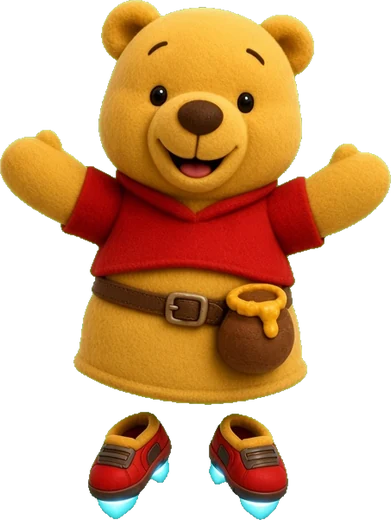
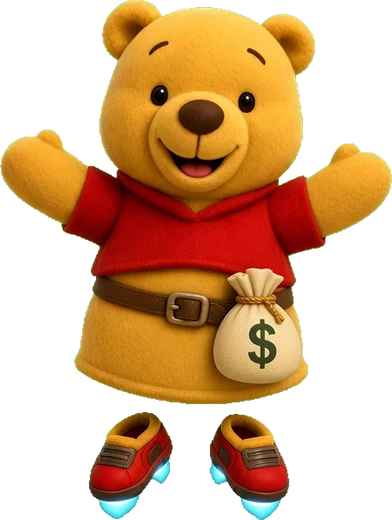
Pinco Pooh Snap v1.2: Money replaces Honey (money bag throwable, Pooh zooms and grabs cash, Money Rain secret, save migration)

diff --git a/pincopoohsnap/js/subjects.js b/pincopoohsnap/js/subjects.js
@@ -3,11 +3,13 @@
 const FX={list:[],tex:{},
  t(k){if(this.tex[k])return this.tex[k];const c=document.createElement('canvas');c.width=c.height=64;const g=c.getContext('2d');g.textAlign='center';g.textBaseline='middle';
   const glyph={z:['Z','#6a8aff'],note:['♪','#ff4ab0'],heart:['♥','#ff4a7a'],star:['★','#ffd23a'],spark:['✦','#ffffff'],crumb:['●','#c8945a'],petal:['❀','#ffb7d5'],steam:['~','#ffffff'],cool:['✧','#4af0ff'],drop:['●','#ffb21a']}[k];
+  if(k==='cash'){g.save();g.translate(32,32);g.fillStyle='#fff';g.fillRect(-29,-17,58,34);g.fillStyle='#5cbf5a';g.fillRect(-26,-14,52,28);g.strokeStyle='#2e7d32';g.lineWidth=3;g.strokeRect(-22,-10,44,20);g.fillStyle='#eaffea';g.beginPath();g.arc(0,0,9,0,7);g.fill();g.fillStyle='#2e7d32';g.font='900 16px Arial,sans-serif';g.textAlign='center';g.textBaseline='middle';g.fillText('$',0,1);g.restore();}
+  else if(k==='coin'){g.fillStyle='#fff';g.beginPath();g.arc(32,32,26,0,7);g.fill();g.fillStyle='#ffc93a';g.beginPath();g.arc(32,32,22,0,7);g.fill();g.strokeStyle='#d99a10';g.lineWidth=3;g.beginPath();g.arc(32,32,16,0,7);g.stroke();g.fillStyle='#b8760a';g.font='900 24px Arial,sans-serif';g.fillText('$',32,34);}
   if(glyph){g.font='bold 50px sans-serif';g.lineWidth=6;g.strokeStyle='#ffffff';if(k!=='spark'&&k!=='steam')g.strokeText(glyph[0],32,34);g.fillStyle=glyph[1];g.fillText(glyph[0],32,34);}
   else if(k==='shadow'){const gr=g.createRadialGradient(32,32,2,32,32,30);gr.addColorStop(0,'rgba(0,0,0,.35)');gr.addColorStop(1,'rgba(0,0,0,0)');g.fillStyle=gr;g.fillRect(0,0,64,64);}
   else if(k==='conf'){g.fillStyle='#fff';g.fillRect(16,24,32,16);}
   const t=new THREE.CanvasTexture(c);t.encoding=THREE.sRGBEncoding;return this.tex[k]=t;},
- spawn(S,k,pos,vel,life,size,col){const m=new THREE.Sprite(new THREE.SpriteMaterial({map:this.t(k),transparent:true,depthWrite:false,color:col||0xffffff}));m.position.copy(pos);m.scale.setScalar(size||.5);S.add(m);this.list.push({m,v:vel||new THREE.Vector3(),life,max:life,g:k==='conf'||k==='crumb'||k==='drop'?-6:0,spin:k==='conf'});},
+ spawn(S,k,pos,vel,life,size,col){const m=new THREE.Sprite(new THREE.SpriteMaterial({map:this.t(k),transparent:true,depthWrite:false,color:col||0xffffff}));m.position.copy(pos);m.scale.setScalar(size||.5);S.add(m);this.list.push({m,v:vel||new THREE.Vector3(),life,max:life,g:k==='conf'||k==='crumb'||k==='drop'||k==='coin'?-6:k==='cash'?-2.2:0,spin:k==='conf'||k==='cash'});},
  burst(S,k,pos,n,spd,life,size,cols){for(let i=0;i<n;i++){const v=new THREE.Vector3((Math.random()-.5)*spd,Math.random()*spd*.8+spd*.3,(Math.random()-.5)*spd);this.spawn(S,k,pos,v,life*(.6+Math.random()*.6),size,cols?cols[i%cols.length]:null);}},
  update(dt,S){for(let i=this.list.length-1;i>=0;i--){const p=this.list[i];p.life-=dt;if(p.life<=0){S.remove(p.m);p.m.material.dispose();this.list.splice(i,1);continue;}p.v.y+=p.g*dt;p.m.position.addScaledVector(p.v,dt);p.m.material.opacity=Math.min(1,p.life/p.max*2);if(p.spin)p.m.material.rotation+=dt*8;}},
  clear(S){for(const p of this.list){S.remove(p.m);p.m.material.dispose();}this.list=[];},
@@ -34,9 +36,10 @@ class Actor{
   if(this.state==='hide'&&this.near(G.cam.position,22))return this.reveal();
   if(this.state==='idle'||this.state==='wander'||this.state==='special'){this.state='look';this.timer=2.6;this.setPose(1);this.hop=.5;AU.play('boing');FX.burst(this.S,'heart',this.headPos(),3,2,1,.45);this.tag('look',2.6);}}
  onLure(item,p,hit){const G=this.G;if(this.state==='gone')return;
+  if(hit&&item==='money'&&this.c==='pooh'){if(this.sp.secret&&G.co.secret.item==='money'&&!G.secretDone)return this.doSecret(p);this.target=p.clone();this.goal='money';this.state='goto';return;}
   if(hit){this.state='bonk';this.timer=2;this.setPose(1);this.tag('bonk',2.4);AU.play('bonk');FX.burst(this.S,'star',this.headPos(),6,3,1.2,.4);if(this.sp.secret&&G.co.secret.item==='apple'&&!G.secretDone&&item==='apple')setTimeout(()=>this.doSecret(),900);if(this.sp.branch&&!G.branchOpen)setTimeout(()=>this.doBranch(),900);return;}
   const d=this.pos.distanceTo(p);
-  if(item==='honey'){if(this.c==='pooh'&&d<24){if(this.sp.secret&&G.co.secret.item==='honey'&&!G.secretDone)return this.doSecret(p);this.state='goto';this.target=p.clone();this.goal='honey';this.wakeIfSleep();return;}
+  if(item==='money'){if(this.c==='pooh'&&d<32){if(this.sp.secret&&G.co.secret.item==='money'&&!G.secretDone)return this.doSecret(p);this.wakeIfSleep();this.grp.visible=true;this.shadow.visible=true;this.rz=0;this.target=p.clone();this.goal='money';this.state='goto';this.hop=.6;AU.play('boing');FX.burst(this.S,'heart',this.headPos(),4,2.5,1,.45);return;}
    if(d<9){this.wakeIfSleep();this.state='look';this.timer=2;this.setPose(1);this.hop=.4;}return;}
   if(item==='apple'){if(this.state==='hide'&&this.sp._propPos&&this.sp._propPos.distanceTo(p)<6)return this.reveal();
    if(d<10){if(this.sp.secret&&G.co.secret.item==='apple'&&!G.secretDone)return this.doSecret(p);if(this.sp.branch&&!G.branchOpen)return this.doBranch();
@@ -60,11 +63,11 @@ class Actor{
    case'sleep':this.setPose(0);this.rz=1.3*(this.idx%2?1:-1);if(Math.random()<dt*.8)FX.spawn(this.S,'z',this.pos.clone().add(new THREE.Vector3(0,ch.h*.55,0)),new THREE.Vector3(.3,.8,0),2.2,.5);sq=1+Math.sin(t*1.6)*.04;if(dist<30&&Math.random()<dt*.15)AU.play('zzz');break;
    case'hide':break;
    case'bonk':this.setPose(1);this.rz=Math.sin(t*14)*.18;if(this.timer<=0){this.rz=0;this.state='look';this.timer=1.5;}break;
-   case'goto':case'run':{const tg=this.target;const v=tg.clone().sub(this.pos).setY(0);const d=v.length();if(d>(this.state==='run'?.5:1.1)){v.normalize().multiplyScalar((this.state==='run'?6:3.2)*dt);this.pos.add(v);this.walkDir(v);bobY=Math.abs(Math.sin(t*12))*.25;this.setPose(this.state==='run'?1:0);}
+   case'goto':case'run':{const tg=this.target;const v=tg.clone().sub(this.pos).setY(0);const d=v.length();const zoomy=this.goal==='money'&&this.state==='goto';if(zoomy&&Math.random()<dt*14)FX.spawn(this.S,'coin',this.pos.clone().add(new THREE.Vector3(0,this.ch.h*.4+this.y,0)),new THREE.Vector3((Math.random()-.5),.6,(Math.random()-.5)),.6,.28);if(d>(this.state==='run'?.5:1.1)){v.normalize().multiplyScalar((this.state==='run'?6:zoomy?9.5:3.2)*dt);this.pos.add(v);this.walkDir(v);bobY=Math.abs(Math.sin(t*12))*.25;this.setPose(this.state==='run'?1:0);}
      else if(this.state==='run'){this.state='idle';this.timer=3;this.home=this.pos.clone();}
-     else{this.state='eat';this.timer=this.goal==='honey'?6:3.5;this.home=this.pos.clone();if(this.goal==='apple'&&G.consume)G.consume(tg);AU.play(this.goal==='honey'?'yay':'nom');}
+     else{this.state='eat';this.timer=this.goal==='money'?6:3.5;this.home=this.pos.clone();if(G.consume)G.consume(tg);if(this.goal==='money'){AU.play('cash');AU.play('yay');this.hop=1;FX.burst(this.S,'cash',this.headPos(),14,5,1.8,.55);FX.burst(this.S,'coin',this.headPos(),8,4,1.2,.32);}else AU.play('nom');}
      if(this.timer<-12){this.state='idle';this.timer=2;}}break;
-   case'eat':if(this.goal==='honey'){this.setPose(2);this.tag('honey',.5);if(Math.random()<dt*3)FX.spawn(this.S,'heart',this.headPos(),new THREE.Vector3((Math.random()-.5),1,0),1.4,.4);}
+   case'eat':if(this.goal==='money'){this.setPose(2);this.tag('money',.5);sq=1+Math.abs(Math.sin(t*7))*.05;this.rz=Math.sin(t*5)*.06;if(Math.random()<dt*7)FX.spawn(this.S,'cash',this.headPos().add(new THREE.Vector3(0,-.3,0)),new THREE.Vector3((Math.random()-.5)*3,2.6+Math.random()*1.5,(Math.random()-.5)*3),1.6,.5);if(Math.random()<dt*2.5)FX.spawn(this.S,'heart',this.headPos(),new THREE.Vector3((Math.random()-.5),1,0),1.4,.4);if(Math.random()<dt*1.2)AU.play('cash');if(this.timer<=0)this.rz=0;}
      else{this.setPose(this.c==='mogu'?2:ch.eat?0:1);this.tag('eat',.5);sq=1+Math.abs(Math.sin(t*10))*.05;if(Math.random()<dt*4)FX.spawn(this.S,'crumb',this.headPos().add(new THREE.Vector3(0,-.4,0)),new THREE.Vector3((Math.random()-.5)*2,1.5,(Math.random()-.5)*2),.8,.18);}
      if(this.timer<=0){this.state='look';this.timer=2;}break;
    case'special':this.specialT+=dt;this.setPose(2);this.tag('special',.3);this.fxSpecial(dt,t);bobY=this._by||0;sq=this._sq||1;if(this.timer<=0){this.state='idle';this.timer=2.5+Math.random()*2;this.rz=0;this._by=0;this._sq=1;}break;
@@ -95,7 +98,7 @@ class Actor{
  fxSecret(dt,t){const S=this.S,k=this.secretT;this._by=0;
   switch(this.c){
    case'pinco':this._by=Math.sin(Math.min(1,k/3)*Math.PI)*5+Math.max(0,Math.sin(k*2))*.5;this.rz=k<3?Math.sin(k*Math.PI*2/3*2)*.6:0;if(Math.random()<dt*14)FX.spawn(S,'spark',this.headPos(),new THREE.Vector3((Math.random()-.5)*2,-.5,(Math.random()-.5)*2),.8,.35);break;
-   case'pooh':this._by=Math.min(4,k*1.2)+Math.sin(k*2)*.2;if(Math.random()<dt*10)FX.spawn(S,this.G.co.id==='tokyo'?'petal':'spark',this.headPos().add(new THREE.Vector3((Math.random()-.5)*3,1,(Math.random()-.5)*3)),new THREE.Vector3(.4,-.6,0),2,.4);break;
+   case'pooh':this._by=Math.min(4,k*1.2)+Math.sin(k*2)*.2;if(Math.random()<dt*16)FX.spawn(S,'cash',this.headPos().add(new THREE.Vector3((Math.random()-.5)*7,3.5+Math.random()*2,(Math.random()-.5)*7)),new THREE.Vector3(.3,-1.2,0),2.6,.55);if(Math.random()<dt*6)FX.spawn(S,this.G.co.id==='tokyo'?'petal':'coin',this.headPos().add(new THREE.Vector3((Math.random()-.5)*4,2.5,(Math.random()-.5)*4)),new THREE.Vector3(.4,-.6,0),2,.4);if(Math.random()<dt*1.5)AU.play('cash');break;
    case'party':if(Math.random()<dt*6)FX.burst(S,'conf',this.headPos(),10,7,1.6,.22,CONF);this.rz=Math.sin(k*6)*.1;break;
    case'dkermit':case'pooping':if(Math.random()<dt*5)FX.spawn(S,this.c==='dkermit'?'note':'star',this.headPos(),new THREE.Vector3((Math.random()-.5),1.2,0),1.6,.5);this.rz=Math.sin(k*(this.c==='pooping'?6:3))*.12;
      for(const a of this.G.actors)if(a!==this&&a.state!=='hide'&&a.state!=='gone'&&a.pos.distanceTo(this.pos)<26&&a.state!=='secret'){a.state='look';a.timer=2;a.setPose(1);if(Math.random()<dt*2)a.hop=.6;a.rz=0;a.tag('dance',2);}break;

diff --git a/pincopoohsnap/js/data.js b/pincopoohsnap/js/data.js
@@ -3,7 +3,7 @@
 // h = world height (m), poses: 0 idle, 1 happy (looks at camera), 2 special
 const CHARS={
  pinco:{en:'Pinco',ja:'ピンコ',h:2.27,sp:{en:'Skateboard cruise',ja:'スケボーでクルーズ'},eat:false,col:'#ff8ab8'},
- pooh:{en:'Pooh',ja:'プー',h:2.02,sp:{en:'Honey time',ja:'はちみつタイム'},eat:true,col:'#ffc23a',float:true},
+ pooh:{en:'Pooh',ja:'プー',h:2.02,sp:{en:'Money time',ja:'マネータイム'},eat:true,col:'#ffc23a',float:true},
  bean:{en:'Mr Bean',ja:'ミスター・ビーン',h:1.95,sp:{en:'Big bounce',ja:'ビッグバウンス'},eat:false,col:'#9ccc3a'},
  pooping:{en:'Mr Pooping',ja:'ミスター・プーピング',h:1.89,sp:{en:'Happy dance',ja:'ハッピーダンス'},eat:false,col:'#a0663a'},
  bronny:{en:'Bronny',ja:'ブロニー',h:2.47,sp:{en:'Slam dunk',ja:'スラムダンク'},eat:false,col:'#f5b81c'},
@@ -96,7 +96,7 @@ const COURSES=[
   ]},
  {id:'tokyo',reg:'jp',en:'Tokyo',ja:'東京',bg:'tokyo',ground:0xb5d98a,path:0xd8c8b0,fog:0xd9e8f5,theme:'sakura',
   blurb:{en:'Temple gate, cherry blossoms, red tower.',ja:'お寺の門、桜、赤いタワー。'},need:80000,
-  secret:{c:'pooh',item:'honey',en:'Sakura float!',ja:'さくらフロート！'},
+  secret:{c:'pooh',item:'money',en:'Sakura money float!',ja:'さくらマネーフロート！'},
   spawns:[
    {c:'mogu',t:.08,s:-1,d:8,b:'special'},
    {c:'asmon',t:.18,s:1,d:7,b:'special',prop:'stall'},
@@ -153,7 +153,7 @@ const COURSES=[
  {id:'maui',reg:'tr',en:'Maui',ja:'マウイ',bg:'maui',ground:0x6fbf5a,path:0x6a6a70,fog:0xc9eaf5,water:1,theme:'jungle',
   blurb:{en:'Waterfalls, ferns and a sleeping volcano.',ja:'滝、シダ、眠る火山。'},need:180000,
   fork:{t:.5,dir:1},
-  secret:{c:'pooh',item:'honey',en:'Rainbow float!',ja:'レインボーフロート！'},
+  secret:{c:'pooh',item:'money',en:'Money Rain!',ja:'マネーレイン！'},
   spawns:[
    {c:'max',t:.08,s:-1,d:8,b:'special'},
    {c:'pinco',t:.18,s:1,d:9,b:'wander'},
@@ -183,12 +183,12 @@ const COURSES=[
   ]},
 ];
 const REGIONS=[{id:'la',en:'Los Angeles',ja:'ロサンゼルス'},{id:'jp',en:'Tokyo',ja:'東京'},{id:'tr',en:'Islands',ja:'アイランズ'}];
-const HONEY_AT=6000;
+const MONEY_AT=6000;
 
 // ---------- REQUESTS ----------
 // test(photo,subj) on evaluated photo meta
 const REQUESTS=[
- {id:'r_pooh_honey',en:'Pooh enjoying honey',ja:'はちみつを楽しむプー',pts:1500,t:p=>p.main&&p.main.c==='pooh'&&p.main.pose===2},
+ {id:'r_pooh_money',en:'Pooh grabbing money',ja:'お金をつかむプー',pts:1500,t:p=>p.main&&p.main.c==='pooh'&&p.main.pose===2},
  {id:'r_pinco_skate',en:'Pinco on a skateboard',ja:'スケボーに乗るピンコ',pts:1500,t:p=>p.main&&p.main.c==='pinco'&&p.main.pose===2},
  {id:'r_duo',en:'Two friends in one shot',ja:'2人の友だちを1枚に',pts:1000,t:p=>p.count>=2},
  {id:'r_trio',en:'Three friends in one shot',ja:'3人の友だちを1枚に',pts:3000,t:p=>p.count>=3},
@@ -216,11 +216,11 @@ const STR={
  menu:['Menu','メニュー'],back:['Back','もどる'],go:['Go!','出発！'],locked:['Locked','ロック中'],
  needPts:['Need {n} pts or find the secret in {c}','{n}ポイント、または{c}のひみつで解放'],
  best:['Best','ベスト'],secretFound:['Secret found','ひみつ発見'],points:['Research points','リサーチポイント'],pts:['pts','pt'],
- film:['Film','フィルム'],apple:['Apple','りんご'],honey:['Honey','はちみつ'],whistle:['Whistle','ふえ'],zoom:['Zoom','ズーム'],
+ film:['Film','フィルム'],apple:['Apple','りんご'],money:['Money','お金'],whistle:['Whistle','ふえ'],zoom:['Zoom','ズーム'],
  pause:['Paused','ポーズ'],resume:['Resume','つづける'],restart:['Restart course','コースをやり直す'],quit:['Back to courses','コース選択へ'],
  tipAim:['Drag anywhere to aim the camera','画面をドラッグしてカメラを向けよう'],tipShoot:['Tap the big pink button to snap a photo','ピンクの大きなボタンで撮影！'],
  tipZoom:['Slide the zoom bar or pinch to zoom','ズームバーをスライド、またはピンチでズーム'],tipApple:['Throw an apple near friends to get their attention','りんごを投げて気を引こう'],
- tipWhistle:['Blow the whistle to wake friends and make them look','ふえで起こしたり、こっちを向かせたり！'],tipHoney:['Honey pots are irresistible to a certain bear…','はちみつは、あのクマの大好物…'],
+ tipWhistle:['Blow the whistle to wake friends and make them look','ふえで起こしたり、こっちを向かせたり！'],tipMoney:['Money is irresistible to a certain bear…','お金は、あのクマの大好物…'],moneyLocked:['Money unlocks at {n} pts','お金は{n}ptで解放'],
  noFilm:['Out of film!','フィルム切れ！'],courseEnd:['End of the course!','コース終了！'],
  newPath:['A new path opened!','新しい道がひらいた！'],secretEv:['Secret!','ひみつ！'],
  reviewTitle:['Photo review','写真チェック'],pickHint:['Pick one photo per friend to show the Professor','友だちごとに1枚えらんで博士に見せよう'],
@@ -229,15 +229,15 @@ const STR={
  centered:['Centered ×2','ど真ん中 ×2'],cropped:['Cropped ×0.6','はみ出し ×0.6'],total:['Total','合計'],
  newRecord:['NEW RECORD!','新記録！'],noSubject:['Nobody in this photo…','だれも写ってない…'],
  summary:['Course results','コース結果'],earned:['Points earned','獲得ポイント'],
- unlocked:['New course unlocked: {c}!','新コース解放：{c}！'],honeyGet:['You got Honey pots!','はちみつポットを手に入れた！'],
+ unlocked:['New course unlocked: {c}!','新コース解放：{c}！'],moneyGet:['You got Money bags!','お金ぶくろを手に入れた！'],
  reqDone:['Request complete: {r} (+{n})','リクエスト達成：{r}（+{n}）'],
  unseen:['Not photographed yet','まだ撮影していない'],specials:['Secret shots','ひみつショット'],
  lang:['Language','言語'],music:['Music','音楽'],sfx:['Sound effects','効果音'],sens:['Aim speed','エイム速度'],on:['On','オン'],off:['Off','オフ'],
- cheat:['Cheat code','チートコード'],apply:['Apply','適用'],cheatOk:['Cheat on: all courses, honey and +50,000 pts!','チート有効：全コース、はちみつ、+50,000pt！'],cheatBad:['Unknown code','無効なコード'],
+ cheat:['Cheat code','チートコード'],apply:['Apply','適用'],cheatOk:['Cheat on: all courses, money and +50,000 pts!','チート有効：全コース、お金、+50,000pt！'],cheatBad:['Unknown code','無効なコード'],
  reset:['Reset save','セーブを消す'],resetQ:['Erase all progress?','すべての進行状況を消しますか？'],
  updated:['Update available — tap to reload','アップデートあり — タップで再読み込み'],
  howto:['How to play','あそびかた'],
- howtoTxt:['Ride the Snap Buggy through each course. Drag to aim, slide or pinch to zoom, and tap the pink shutter to take photos. Throw apples or honey and blow the whistle to coax fun reactions. After the ride, show your best shots to Professor Pooping for points!','スナップバギーに乗ってコースをめぐろう。ドラッグでエイム、スライドやピンチでズーム、ピンクのシャッターで撮影。りんごやはちみつを投げたり、ふえを吹いて楽しいリアクションを引き出そう。最後にベストショットをプーピング博士に見せてポイントゲット！'],
+ howtoTxt:['Ride the Snap Buggy through each course. Drag to aim, slide or pinch to zoom, and tap the pink shutter to take photos. Throw apples or money and blow the whistle to coax fun reactions. After the ride, show your best shots to Professor Pooping for points!','スナップバギーに乗ってコースをめぐろう。ドラッグでエイム、スライドやピンチでズーム、ピンクのシャッターで撮影。りんごやお金を投げたり、ふえを吹いて楽しいリアクションを引き出そう。最後にベストショットをプーピング博士に見せてポイントゲット！'],
  profName:['Professor Pooping','プーピング博士'],
  recordOf:['Best of {c}','{c}のベスト'],cleared:['Done','達成'],
  reqHint:['Snap these to impress the Professor','博士をうならせる写真を撮ろう'],

diff --git a/pincopoohsnap/js/ui.js b/pincopoohsnap/js/ui.js
@@ -1,18 +1,18 @@
 'use strict';
 const $=id=>document.getElementById(id);
 const HUD={
- start(co){$('hFilm').textContent=G.film;$('hCourse').textContent=HS.L(co);$('bHoney').classList.toggle('lock',!HS.state.honey);$('hTip').classList.remove('on');$('pause').classList.remove('on');$('hBanner').className='banner';this.banner(HS.L(co),'#4ad8ff');},
+ start(co){$('hFilm').textContent=G.film;$('hCourse').textContent=HS.L(co);$('bMoney').classList.toggle('lock',!HS.state.money);$('hTip').classList.remove('on');$('pause').classList.remove('on');$('hBanner').className='banner';this.banner(HS.L(co),'#4ad8ff');},
  update(g){$('hFilm').textContent=g.film;$('hProg').style.width=Math.min(100,g.u*100)+'%';$('bWhistle').classList.toggle('cd',g.whCd>0);$('hFilm').parentNode.classList.toggle('low',g.film<=5);},
  banner(t,col,big){const b=$('hBanner');b.textContent=t;b.style.setProperty('--bc',col||'#ff5aa0');b.className='banner'+(big?' big':'');void b.offsetWidth;b.classList.add('on');},
  tip(t){const e=$('hTip');e.textContent=t;e.classList.remove('on');void e.offsetWidth;e.classList.add('on');clearTimeout(this._tt);this._tt=setTimeout(()=>e.classList.remove('on'),4200);},
  ring(){const r=$('hRing');r.classList.remove('on');void r.offsetWidth;r.classList.add('on');},
  snap(img){const f=$('hFlash');f.classList.remove('on');void f.offsetWidth;f.classList.add('on');const t=$('hThumb');t.style.backgroundImage=`url(${img})`;t.classList.remove('on');void t.offsetWidth;t.classList.add('on');$('vf').classList.remove('kick');void $('vf').offsetWidth;$('vf').classList.add('kick');},
  flashMsg(t){this.tip(t);},
- press(k){const b={apple:'bApple',honey:'bHoney',whistle:'bWhistle'}[k];if(!b)return;const e=$(b);e.classList.remove('pop');void e.offsetWidth;e.classList.add('pop');},
+ press(k){const b={apple:'bApple',money:'bMoney',whistle:'bWhistle'}[k];if(!b)return;const e=$(b);e.classList.remove('pop');void e.offsetWidth;e.classList.add('pop');},
 };
 const HS={KEY:'pincopoohsnap_v1',lang:'en',scr:'sTitle',reg:'la',
- defState(){const ja=(navigator.language||'').toLowerCase().startsWith('ja');return{v:1,started:false,opt:{lang:ja?'ja':'en',music:.7,sfx:1,sens:1},pts:0,unlocked:{venice:true},secrets:{},best:{},album:{},specials:{},req:{},honey:false,cheat:false,played:{}};},
- load(){let s=null;try{s=JSON.parse(localStorage.getItem(this.KEY));}catch(e){}const d=this.defState();if(!s||s.v!==1)return d;return Object.assign(d,s,{opt:Object.assign(d.opt,s.opt||{})});},
+ defState(){const ja=(navigator.language||'').toLowerCase().startsWith('ja');return{v:1,started:false,opt:{lang:ja?'ja':'en',music:.7,sfx:1,sens:1},pts:0,unlocked:{venice:true},secrets:{},best:{},album:{},specials:{},req:{},money:false,cheat:false,played:{}};},
+ load(){let s=null;try{s=JSON.parse(localStorage.getItem(this.KEY));}catch(e){}const d=this.defState();if(!s||s.v!==1)return d;if('honey' in s){s.money=!!(s.money||s.honey);delete s.honey;}if(s.req&&s.req['r_pooh_'+'honey']){s.req.r_pooh_money=true;delete s.req['r_pooh_'+'honey'];}return Object.assign(d,s,{opt:Object.assign(d.opt,s.opt||{})});},
  save(){try{localStorage.setItem(this.KEY,JSON.stringify(this.state));}catch(e){try{for(const k in this.state.album)if(this.state.album[k].img&&this.state.album[k].img.length>60000)this.state.album[k].img='';localStorage.setItem(this.KEY,JSON.stringify(this.state));}catch(e2){}}},
  T(k,v){const s=STR[k];let r=s?s[this.lang==='ja'?1:0]:k;if(v)for(const x in v)r=r.replace('{'+x+'}',v[x]);return r;},
  L(o){return o?(o[this.lang]||o.en):'';},
@@ -71,7 +71,7 @@ const HS={KEY:'pincopoohsnap_v1',lang:'en',scr:'sTitle',reg:'la',
  summary(){const rv=this.rv,s=this.state,co=rv.co;const before=COURSES.map((c,i)=>this.unlockedIdx(i));
   if(!s.req.r_all&&CAST_ORDER.every(c=>s.album[c])){s.req.r_all=true;const q=REQUESTS.find(q=>q.id==='r_all');rv.reqPts+=q.pts;rv.news.push(this.T('reqDone',{r:this.L(q),n:q.pts.toLocaleString()}));}
   const earned=rv.course+rv.reqPts;s.pts+=earned;s.best[co.id]=Math.max(s.best[co.id]||0,rv.course);
-  if(!s.honey&&s.pts>=HONEY_AT){s.honey=true;rv.news.push(this.T('honeyGet'));}
+  if(!s.money&&s.pts>=MONEY_AT){s.money=true;rv.news.push(this.T('moneyGet'));}
   COURSES.forEach((c,i)=>{if(!before[i]&&this.unlockedIdx(i)){s.unlocked[c.id]=true;rv.news.push(this.T('unlocked',{c:this.L(c)}));}});
   if(rv.flags.secret)rv.news.unshift('★ '+this.T('secretFound')+': '+this.L(co.secret));
   this.save();
@@ -89,7 +89,7 @@ const HS={KEY:'pincopoohsnap_v1',lang:'en',scr:'sTitle',reg:'la',
  renderOpt(){const s=this.state.opt;const seg=(id,vals,cur,f)=>{$(id).innerHTML=vals.map(v=>`<button class="chip ${Math.abs(v[0]-cur)<.01?'on':''}" data-v="${v[0]}">${v[1]}</button>`).join('');$(id).querySelectorAll('[data-v]').forEach(b=>b.onclick=()=>{AU.play('ui');f(+b.dataset.v);this.save();this.renderOpt();});};
   const vol=[[0,this.T('off')],[.4,'40%'],[.7,'70%'],[1,'100%']];seg('oMusic',vol,s.music,v=>{s.music=v;AU.setMV(v);});seg('oSfx',vol,s.sfx,v=>{s.sfx=v;AU.setSV(v);AU.play('ui');});
   seg('oSens',[[.7,this.lang==='ja'?'ゆっくり':'Slow'],[1,this.lang==='ja'?'ふつう':'Normal'],[1.4,this.lang==='ja'?'はやい':'Fast']],s.sens,v=>{s.sens=v;});},
- cheat(){const v=($('oCheat').value||'').trim().toUpperCase();if(v==='AMSABABY'){const s=this.state;s.cheat=true;s.honey=true;s.pts+=50000;s.started=true;COURSES.forEach(c=>s.unlocked[c.id]=true);this.save();AU.play('secret');this.toast(this.T('cheatOk'));$('oCheat').value='';}else{AU.play('back');this.toast(this.T('cheatBad'));}},
+ cheat(){const v=($('oCheat').value||'').trim().toUpperCase();if(v==='AMSABABY'){const s=this.state;s.cheat=true;s.money=true;s.pts+=50000;s.started=true;COURSES.forEach(c=>s.unlocked[c.id]=true);this.save();AU.play('secret');this.toast(this.T('cheatOk'));$('oCheat').value='';}else{AU.play('back');this.toast(this.T('cheatBad'));}},
  // ---------- init ----------
  init(){this.state=this.load();this.lang=this.state.opt.lang;AU.mv=this.state.opt.music;AU.sv=this.state.opt.sfx;
   $('tCast').innerHTML=['pooh_1','pinco_1','bean_1','max_1','dkermit_1','party_1'].map((k,i)=>`<img class="tc tc${i}" src="art/c_${k}.webp" alt="">`).join('');
@@ -105,7 +105,7 @@ const HS={KEY:'pincopoohsnap_v1',lang:'en',scr:'sTitle',reg:'la',
   $('oCheatGo').onclick=()=>this.cheat();$('oReset').onclick=()=>{this.modal(`<p>${this.T('resetQ')}</p>`,[{t:this.T('no')},{t:this.T('yes'),cls:'danger',f:()=>{const l=this.lang;this.state=this.defState();this.state.opt.lang=l;this.save();this.toast('OK');this.show('sTitle');$('tMenu').classList.add('on');$('tStart').classList.add('hide');}}]);};
   // game buttons
   const tapBtn=(id,f)=>{const e=$(id);e.addEventListener('pointerdown',ev=>{ev.preventDefault();ev.stopPropagation();AU.unlock();f();});};
-  tapBtn('bShoot',()=>G.shoot());tapBtn('bApple',()=>G.throwItem('apple'));tapBtn('bHoney',()=>{if(!this.state.honey){HUD.tip(this.T('locked'));return;}G.throwItem('honey');});tapBtn('bWhistle',()=>G.whistle());
+  tapBtn('bShoot',()=>G.shoot());tapBtn('bApple',()=>G.throwItem('apple'));tapBtn('bMoney',()=>{if(!this.state.money){HUD.tip(this.T('moneyLocked',{n:MONEY_AT.toLocaleString()}));return;}G.throwItem('money');});tapBtn('bWhistle',()=>G.whistle());
   tapBtn('hPause',()=>{G.paused=true;$('pause').classList.add('on');AU.play('ui');});
   $('pResume').onclick=()=>{G.paused=false;$('pause').classList.remove('on');AU.play('ui');};
   $('pRestart').onclick=()=>{AU.play('ui');$('pause').classList.remove('on');G.start(this.cur);};

diff --git a/pincopoohsnap/js/game.js b/pincopoohsnap/js/game.js
@@ -43,15 +43,17 @@ const G={on:false,paused:false,speed:1/100,
   if(this.u>=1&&!this.ending){this.ending=true;HUD.banner(HS.T('courseEnd'),'#ff5aa0');AU.play('fanfare');setTimeout(()=>{this.on=false;HS.review(this.photos,this.co,{secret:this.secretDone,branch:this.branchOpen});},2200);}
   W.update(dt,this.t,this.cam);
   this.renderer.render(this.scene,this.cam);},
- tips(){const u=this.u,T=(k,at)=>{if(u>=at&&!this.tipsShown[k]){this.tipsShown[k]=1;HUD.tip(HS.T(k));}};T('tipAim',.005);T('tipShoot',.05);T('tipZoom',.11);T('tipApple',.17);T('tipWhistle',.25);if(HS.state.honey)T('tipHoney',.33);},
+ tips(){const u=this.u,T=(k,at)=>{if(u>=at&&!this.tipsShown[k]){this.tipsShown[k]=1;HUD.tip(HS.T(k));}};T('tipAim',.005);T('tipShoot',.05);T('tipZoom',.11);T('tipApple',.17);T('tipWhistle',.25);if(HS.state.money)T('tipMoney',.33);},
  // ---------- items ----------
- throwItem(kind){if(!this.on||this.paused||this.ending||this.thCd>0)return;if(kind==='honey'&&!HS.state.honey)return;this.thCd=.45;AU.play('throw');
-  const m=kind==='apple'?this.appleMesh():this.honeyMesh();const p=this.cam.position.clone().addScaledVector(this.dir,1).add(new THREE.Vector3(0,-.4,0));m.position.copy(p);this.scene.add(m);
+ throwItem(kind){if(!this.on||this.paused||this.ending||this.thCd>0)return;if(kind==='money'&&!HS.state.money)return;this.thCd=.45;AU.play('throw');
+  const m=kind==='apple'?this.appleMesh():this.moneyMesh();const p=this.cam.position.clone().addScaledVector(this.dir,1).add(new THREE.Vector3(0,-.4,0));m.position.copy(p);this.scene.add(m);
   const v=this.dir.clone().multiplyScalar(17+4/this.zoom).add(new THREE.Vector3(0,4.5,0));this.items.push({m,v,kind,land:false,life:9});HUD.press(kind);},
  appleMesh(){const g=new THREE.Group();const a=new THREE.Mesh(W.geo('sph'),W.m(0xff3a3a));a.scale.setScalar(.55);g.add(a);const st=new THREE.Mesh(W.geo('cyl'),W.m(0x6a4a2a));st.scale.set(.06,.25,.06);st.position.y=.3;g.add(st);const lf=new THREE.Mesh(W.geo('sph'),W.m(0x4ac04a));lf.scale.set(.18,.06,.1);lf.position.set(.1,.36,0);g.add(lf);return g;},
- honeyMesh(){const g=new THREE.Group();const a=new THREE.Mesh(W.geo('sph'),W.m(0xc8843a));a.scale.set(.7,.6,.7);g.add(a);const l=new THREE.Mesh(W.geo('cyl'),W.m(0xffc23a));l.scale.set(.55,.12,.55);l.position.y=.3;g.add(l);return g;},
+ moneyMesh(){const g=new THREE.Group();const cloth=W.m(0xf1e2b4);const a=new THREE.Mesh(W.geo('sph'),cloth);a.scale.set(.66,.6,.62);g.add(a);const nk=new THREE.Mesh(W.geo('cyl'),cloth);nk.scale.set(.2,.18,.2);nk.position.y=.36;g.add(nk);const tie=new THREE.Mesh(W.geo('cyl'),W.m(0xe0a630));tie.scale.set(.24,.06,.24);tie.position.y=.34;g.add(tie);const top=new THREE.Mesh(W.geo('sph'),cloth);top.scale.set(.3,.14,.3);top.position.y=.5;g.add(top);
+  if(!this._dolTex)this._dolTex=W.canvasTex(128,128,(c,w,h)=>{c.fillStyle='#f1e2b4';c.beginPath();c.arc(64,64,62,0,7);c.fill();c.font='900 100px Arial Black,Arial,sans-serif';c.textAlign='center';c.textBaseline='middle';c.fillStyle='#2e8b3e';c.fillText('$',64,70);});
+  const dm=new THREE.MeshBasicMaterial({map:this._dolTex,transparent:true,alphaTest:.3});for(const s of[1,-1]){const q=new THREE.Mesh(new THREE.PlaneGeometry(.62,.62),dm);q.position.z=.6*s;q.rotation.y=s>0?0:Math.PI;g.add(q);}g.userData.money=1;return g;},
  updItems(dt){for(let i=this.items.length-1;i>=0;i--){const it=this.items[i];
-   if(!it.land){it.v.y-=14*dt;it.m.position.addScaledVector(it.v,dt);it.m.rotation.x+=dt*6;
+   if(!it.land){it.v.y-=14*dt;it.m.position.addScaledVector(it.v,dt);if(it.kind==='money'){it.m.rotation.y+=dt*9;it.m.rotation.z=Math.sin(it.m.rotation.y)*.25;if(Math.random()<dt*10)FX.spawn(this.scene,'coin',it.m.position.clone(),new THREE.Vector3(0,.4,0),.5,.22);}else it.m.rotation.x+=dt*6;
     for(const a of this.actors){if(a.state==='gone'||a.state==='hide'||!a.grp.visible)continue;const c=a.pos.clone().setY(a.y+a.ch.h*.5);if(c.distanceTo(it.m.position)<Math.max(.6,a.ch.h*.38)){a.onLure(it.kind,it.m.position.clone(),true);it.land=true;it.v.set(0,0,0);it.m.position.y=.3;it.bonked=true;break;}}
     if(!it.land&&it.m.position.y<=.3){it.m.position.y=.3;it.land=true;AU.play('thud');FX.burst(this.scene,'spark',it.m.position,4,2,.5,.3);
      for(const a of this.actors)if(a.state!=='gone'&&!a.pathHidden)a.onLure(it.kind,it.m.position.clone(),false);}}
@@ -79,7 +81,7 @@ const G={on:false,paused:false,speed:1/100,
   const score=s=>s.size+this.posePts(s);subs.sort((a,b)=>score(b)-score(a));
   const main=subs[0]||null;const count=subs.filter(s=>s.frac>=.01).length;const tags=[...new Set(subs.flatMap(s=>s.tags))];
   return{subs,main,count,tags};},
- posePts(s){let p=[200,500,900][s.pose]||200;const t=s.tags;if(t.includes('sleep'))p+=100;if(t.includes('eat'))p+=300;if(t.includes('bonk'))p+=400;if(t.includes('woke'))p+=300;if(t.includes('surprise'))p+=500;if(t.includes('dance'))p+=300;if(t.includes('honey'))p+=300;return p;},
+ posePts(s){let p=[200,500,900][s.pose]||200;const t=s.tags;if(t.includes('sleep'))p+=100;if(t.includes('eat'))p+=300;if(t.includes('bonk'))p+=400;if(t.includes('woke'))p+=300;if(t.includes('surprise'))p+=500;if(t.includes('dance'))p+=300;if(t.includes('money'))p+=300;return p;},
  // evaluation breakdown used by the review screen
  evalPhoto(m){if(!m.main)return{total:0,none:true};const s=m.main;const size=s.size,pose=this.posePts(s);let mult=1;const notes=[];if(s.center){mult*=2;notes.push('centered');}if(s.crop){mult*=.6;notes.push('cropped');}if(s.hidden){mult*=.5;notes.push('hidden');}
   const friends=Math.max(0,m.count-1)*400;const special=s.tags.includes('secret')?2500:0;const total=Math.round(((size+pose)*mult+friends+special)/10)*10;return{size,pose,mult,notes,friends,special,total};},
@@ -91,7 +93,7 @@ const G={on:false,paused:false,speed:1/100,
    if(this.paused)return;const k=(HS.state.opt.sens||1)*.0042/this.zoom;this.yaw=Math.max(-1.9,Math.min(1.9,this.yaw-dx*k));this.pitch=Math.max(-.55,Math.min(.6,this.pitch-dy*k));});
   const up=e=>{pts.delete(e.pointerId);if(pts.size<2)pinch0=0;};el.addEventListener('pointerup',up);el.addEventListener('pointercancel',up);
   // silent dev keys (not shown anywhere)
-  window.addEventListener('keydown',e=>{if(!this.on)return;const k=e.key.toLowerCase();if(k===' ')this.shoot();if(k==='a')this.throwItem('apple');if(k==='h')this.throwItem('honey');if(k==='w')this.whistle();if(k==='arrowleft')this.yaw+=.1;if(k==='arrowright')this.yaw-=.1;if(k==='arrowup')this.pitch+=.05;if(k==='arrowdown')this.pitch-=.05;});},
+  window.addEventListener('keydown',e=>{if(!this.on)return;const k=e.key.toLowerCase();if(k===' ')this.shoot();if(k==='a')this.throwItem('apple');if(k==='m')this.throwItem('money');if(k==='w')this.whistle();if(k==='arrowleft')this.yaw+=.1;if(k==='arrowright')this.yaw-=.1;if(k==='arrowup')this.pitch+=.05;if(k==='arrowdown')this.pitch-=.05;});},
  // aim helper for tests: point camera at actor
  aimAt(a){const p=this.cam.position;const d=a.pos.clone().add(new THREE.Vector3(0,a.y+a.ch.h*.5,0)).sub(p);const u=Math.min(.999,this.u);const tg=this.curve.getTangentAt(u);const base=Math.atan2(tg.x,tg.z);let y=Math.atan2(d.x,d.z)-base;while(y>Math.PI)y-=Math.PI*2;while(y<-Math.PI)y+=Math.PI*2;this.yaw=Math.max(-1.9,Math.min(1.9,y));this.pitch=Math.atan2(d.y,Math.hypot(d.x,d.z));},
 };

diff --git a/pincopoohsnap/index.html b/pincopoohsnap/index.html
@@ -8,8 +8,8 @@
 <link rel="icon" href="icon-192.png">
 <link rel="apple-touch-icon" href="apple-touch-icon.png">
 <link rel="manifest" href="manifest.json">
-<link rel="stylesheet" href="style.css?v=1.1.1">
-<script>window.__BUILD__='v1.1.1';</script>
+<link rel="stylesheet" href="style.css?v=1.2">
+<script>window.__BUILD__='v1.2';</script>
 </head>
 <body>
 <div id="app">
@@ -64,7 +64,7 @@
   </div>
   <div class="items">
    <button class="ibtn" id="bApple"><span class="ic">🍎</span><small data-t="apple">Apple</small></button>
-   <button class="ibtn" id="bHoney"><span class="ic">🍯</span><small data-t="honey">Honey</small></button>
+   <button class="ibtn" id="bMoney"><span class="ic"><svg class="mbag" viewBox="0 0 64 64" width="34" height="34" aria-hidden="true"><path d="M24 14c-3-5 1-9 4-7l4 3 4-3c3-2 7 2 4 7z" fill="#e9d6a2" stroke="#8a6a32" stroke-width="2.5" stroke-linejoin="round"/><path d="M25 17h14c10 6 17 16 17 27 0 9-7 15-24 15S8 53 8 44c0-11 7-21 17-27z" fill="#f1e2b4" stroke="#8a6a32" stroke-width="2.5" stroke-linejoin="round"/><path d="M23 17.5c5 2 13 2 18 0" fill="none" stroke="#e0a630" stroke-width="3.5" stroke-linecap="round"/><text x="32" y="51" text-anchor="middle" font-family="Arial Black,Arial,sans-serif" font-weight="900" font-size="26" fill="#2e8b3e">$</text></svg></span><small data-t="money">Money</small></button>
    <button class="ibtn" id="bWhistle"><span class="ic">🎵</span><small data-t="whistle">Whistle</small></button>
   </div>
   <div class="zoombox"><small data-t="zoom">Zoom</small><input id="zoomR" type="range" min="1" max="4" step="0.05" value="1"></div>
@@ -125,14 +125,14 @@
  <div id="toast" class="toast"></div>
 </div>
 <script src="js/three.min.js"></script>
-<script src="js/data.js?v=1.1.1"></script>
-<script src="js/audio.js?v=1.1.1"></script>
-<script src="js/world.js?v=1.1.1"></script>
-<script src="js/props.js?v=1.1.1"></script>
-<script src="js/sets.js?v=1.1.1"></script>
-<script src="js/subjects.js?v=1.1.1"></script>
-<script src="js/game.js?v=1.1.1"></script>
-<script src="js/ui.js?v=1.1.1"></script>
+<script src="js/data.js?v=1.2"></script>
+<script src="js/audio.js?v=1.2"></script>
+<script src="js/world.js?v=1.2"></script>
+<script src="js/props.js?v=1.2"></script>
+<script src="js/sets.js?v=1.2"></script>
+<script src="js/subjects.js?v=1.2"></script>
+<script src="js/game.js?v=1.2"></script>
+<script src="js/ui.js?v=1.2"></script>
 <script>(function(){var B=window.__BUILD__;function nv(s){return String(s||'').replace(/[^0-9.]/g,'').split('.').map(Number)}
 function newer(a,b){a=nv(a);b=nv(b);for(var i=0;i<Math.max(a.length,b.length);i++){var x=a[i]||0,y=b[i]||0;if(x!==y)return x>y}return false}
 function chk(){try{fetch('version.json?t='+Date.now(),{cache:'no-store'}).then(function(r){return r.ok?r.json():null}).then(function(j){if(j&&newer(j.build,B)&&!document.getElementById('updbar')){var d=document.createElement('div');d.id='updbar';d.textContent=(window.HS&&HS.T)?HS.T('updated'):'Update available — tap to reload';d.style.cssText='position:fixed;left:50%;top:calc(10px + env(safe-area-inset-top));transform:translateX(-50%);z-index:99998;background:#ff5aa0;color:#fff;border:3px solid #fff;border-radius:999px;padding:12px 20px;font:800 16px system-ui,sans-serif;box-shadow:0 4px 0 #0003;cursor:pointer;pointer-events:auto;white-space:nowrap';d.onclick=function(e){e.stopPropagation();location.reload()};d.addEventListener('touchstart',function(e){e.stopPropagation();location.reload()},{passive:true});document.body.appendChild(d)}}).catch(function(){})}catch(e){}}

diff --git a/pincopoohsnap/js/world.js b/pincopoohsnap/js/world.js
@@ -43,7 +43,7 @@ const W={tex:{},G:{},matCache:{},
  m(col){return this.matCache[col]||(this.matCache[col]=this.mat(col));},
  rnd:null,seed(s){let x=s>>>0||1;this.rnd=()=>{x^=x<<13;x>>>=0;x^=x>>17;x^=x<<5;x>>>=0;return x/4294967296;};},
  R(a,b){return a+(b-a)*this.rnd();},pick(a){return a[(this.rnd()*a.length)|0];},
- // legacy simple geometry cache (used by game.js for apples/honey)
+ // legacy simple geometry cache (used by game.js for thrown apples/money)
  geo(k){if(this.G[k])return this.G[k];let g;switch(k){case'dot':g=new THREE.CylinderGeometry(.12,.12,.08,8);break;case'box':g=new THREE.BoxGeometry(1,1,1);break;case'cyl':g=new THREE.CylinderGeometry(.5,.5,1,12);break;case'cone':g=new THREE.ConeGeometry(.5,1,12);break;case'sph':g=new THREE.SphereGeometry(.5,14,10);break;case'ico':g=new THREE.IcosahedronGeometry(.5,1);break;case'tor':g=new THREE.TorusGeometry(.5,.08,8,24);break;}return this.G[k]=g;},
  U:{uTime:{value:0}},
  // ---------------- shape library (base at y=0 unless noted) ----------------
@@ -148,7 +148,7 @@ Object.assign(W,{
  cloudTex(){if(this.tex.cloud)return this.tex.cloud;return this.tex.cloud=this.canvasTex(256,128,(g,w,h)=>{const R=Math.random;for(let i=0;i<26;i++){const x=40+R()*176,y=60+R()*36-(Math.abs(x-128)<60?18:0),r=18+R()*26;const gr=g.createRadialGradient(x,y-r*.3,r*.1,x,y,r);gr.addColorStop(0,'rgba(255,255,255,1)');gr.addColorStop(.7,'rgba(250,252,255,.9)');gr.addColorStop(1,'rgba(235,242,255,0)');g.fillStyle=gr;g.beginPath();g.arc(x,y,r,0,7);g.fill();}
    const sh=g.createLinearGradient(0,60,0,128);sh.addColorStop(0,'rgba(255,255,255,0)');sh.addColorStop(1,'rgba(190,205,230,.55)');g.globalCompositeOperation='source-atop';g.fillStyle=sh;g.fillRect(0,0,w,h);});},
  // neon / billboard ad strip for screens (scrolls)
- screenTex(){const t=this.canvasTex(256,1024,(g,w,h)=>{const C=['#ff4ad8','#4af0ff','#ffe14a','#8a6aff','#4aff9a','#ff7a3a'];const words=['SNAP!','ピンコ','HONEY','スナップ','PINCO','ハチミツ','SMILE','パシャ!','POOH','カメラ'];
+ screenTex(){const t=this.canvasTex(256,1024,(g,w,h)=>{const C=['#ff4ad8','#4af0ff','#ffe14a','#8a6aff','#4aff9a','#ff7a3a'];const words=['SNAP!','ピンコ','MONEY','スナップ','PINCO','マネー','SMILE','パシャ!','POOH','カメラ'];
    for(let i=0;i<8;i++){const y=i*128;const gr=g.createLinearGradient(0,y,w,y+128);gr.addColorStop(0,C[i%6]);gr.addColorStop(1,C[(i+2)%6]);g.fillStyle=gr;g.fillRect(0,y,w,128);
     g.globalAlpha=.35;g.fillStyle='#fff';for(let k=0;k<6;k++){g.beginPath();g.arc(Math.random()*w,y+Math.random()*128,6+Math.random()*22,0,7);g.fill();}g.globalAlpha=1;
     g.font='bold 52px "Hiragino Sans","Arial Black",sans-serif';g.textAlign='center';g.textBaseline='middle';g.lineWidth=8;g.strokeStyle='rgba(0,0,0,.35)';g.strokeText(words[i%words.length],w/2,y+66);g.fillStyle='#fff';g.fillText(words[i%words.length],w/2,y+64);}});

diff --git a/pincopoohsnap/js/props.js b/pincopoohsnap/js/props.js
@@ -52,7 +52,7 @@ const PROPS={
     const lit=N&&b.R(0,1)<.65;b.P(W.rbox(1.1,1.35,.12,.04),x,y,z,r,1,1,1,lit?b.pick([0xffe7a0,0xffd27a,0xbfe8ff,0xff9ae0]):(N?0x2a2a4a:b.pick([0x8fd0f5,0xa7dcf8,0x9ad7ef])),lit?'glow':'glass');
     if(!N)b.P(W.rbox(1.3,.12,.24,.04),x,y-.1,z,r,1,1,1,0xffffff,'std');}}
   if(!o.flat){b.P(W.cyl(10),w*.25,h+.3,-d*.15,0,1.4,1.6,1.4,N?0x6a6a8a:0xd8d4cc,'std');b.P(W.cone(10),w*.25,h+1.9,-d*.15,0,1.6,.6,1.6,N?0x5a5a7a:0xb8b4ac,'std');b.P(W.rbox(1.6,1,1.2,.1),-w*.25,h+.3,0,0,1,1,1,0xc8c8cc,'std');}
-  if(N&&b.R(0,1)<.75){const nc=b.pick(['#ff4ad8','#4af0ff','#ffe14a','#9a6aff','#4aff9a']);const t=b.pick(['カラオケ','ラーメン','スナップ','ピンコ','ハチミツ','ゲーム','SNAP','PINCO','カフェ','すし']);const uv=b.sign(t,'#140c2a',nc,{neon:1});
+  if(N&&b.R(0,1)<.75){const nc=b.pick(['#ff4ad8','#4af0ff','#ffe14a','#9a6aff','#4aff9a']);const t=b.pick(['カラオケ','ラーメン','スナップ','ピンコ','たいやき','ゲーム','SNAP','PINCO','カフェ','すし']);const uv=b.sign(t,'#140c2a',nc,{neon:1});
    const sw=Math.min(w*.8,6.5);b.signQuad(uv,0,h*.7,d/2+.12,0,sw,sw/4,1);b.halo(0,h*.7,d/2+1,parseInt(nc.slice(1),16),5);
    if(b.R(0,1)<.6){const t2=b.pick(['居酒屋','本','ゲーム','カラオケ','ピンコ']);const uv2=b.sign(t2,'#140c2a',b.pick(['#ff4ad8','#4af0ff','#ffe14a']),{neon:1,w:64,h:256});b.signQuad(uv2,w/2+.15,h*.45,d/2-.6,Math.PI/2,1.4,5.6,1);}}
   b.occ(0,h/2,0,w,h,d);},

diff --git a/pincopoohsnap/style.css b/pincopoohsnap/style.css
@@ -88,7 +88,7 @@ html[lang=ja] .bar h2{font-family:var(--body);font-weight:900;font-size:22px}
 .btn.icon{min-height:48px;width:52px;padding:0;font-family:var(--body);font-weight:900;font-size:18px}
 .items{position:absolute;display:flex;gap:10px}
 .ibtn{width:76px;height:76px;border-radius:50%;border:4px solid #fff;background:#ffffffd8;box-shadow:0 5px 0 #0003;display:flex;flex-direction:column;align-items:center;justify-content:center;padding:0;touch-action:none}
-.ibtn .ic{font-size:30px;line-height:1}.ibtn small{font-size:11px;font-weight:900;margin-top:2px}
+.ibtn .ic{font-size:30px;line-height:1}.ibtn .mbag{display:block;width:34px;height:34px}.ibtn small{font-size:11px;font-weight:900;margin-top:2px}
 .ibtn.pop{animation:ipop .3s}@keyframes ipop{40%{transform:scale(.85)}}
 .ibtn.lock{opacity:.4;filter:grayscale(1)}.ibtn.cd{opacity:.55}
 .shutter{position:absolute;width:104px;height:104px;border-radius:50%;border:6px solid #fff;background:var(--pink);box-shadow:0 6px 0 var(--pinkd),0 0 0 6px #ff5aa055;padding:0;touch-action:none}

diff --git a/pincopoohsnap/js/audio.js b/pincopoohsnap/js/audio.js
@@ -191,6 +191,7 @@ const AU={ctx:null,mv:.7,sv:1,on:true,cur:null,pending:null,timer:null,step:0,ne
    case'pop':this.tone(t,320,.1,'sine',.35,null,.002,950);this.nz(t,.05,.2,4000);break;
    case'boing':this.tone(t,190,.33,'sine',.3,null,.005,720);break;
    case'nom':for(let i=0;i<3;i++)this.tone(t+i*.12,280+i*25,.08,'triangle',.16);break;
+   case'cash':this.tone(t,this.hz(88),.06,'square',.08);this.tone(t+.06,this.hz(96),.32,'triangle',.16);this.tone(t+.06,this.hz(100),.26,'sine',.09);this.nz(t+.05,.12,.12,6000);break;
    case'yay':[74,78,81,86].forEach((n,i)=>this.tone(t+i*.055,this.hz(n),.17,'triangle',.17));break;
    case'secret':[70,74,77,81,82,86,89,94].forEach((n,i)=>this.tone(t+i*.065,this.hz(n),.3,'sine',.12));this.nz(t,.6,.08,7000);break;
    case'tick':this.tone(t,1300+Math.random()*200,.035,'triangle',.1);break;
